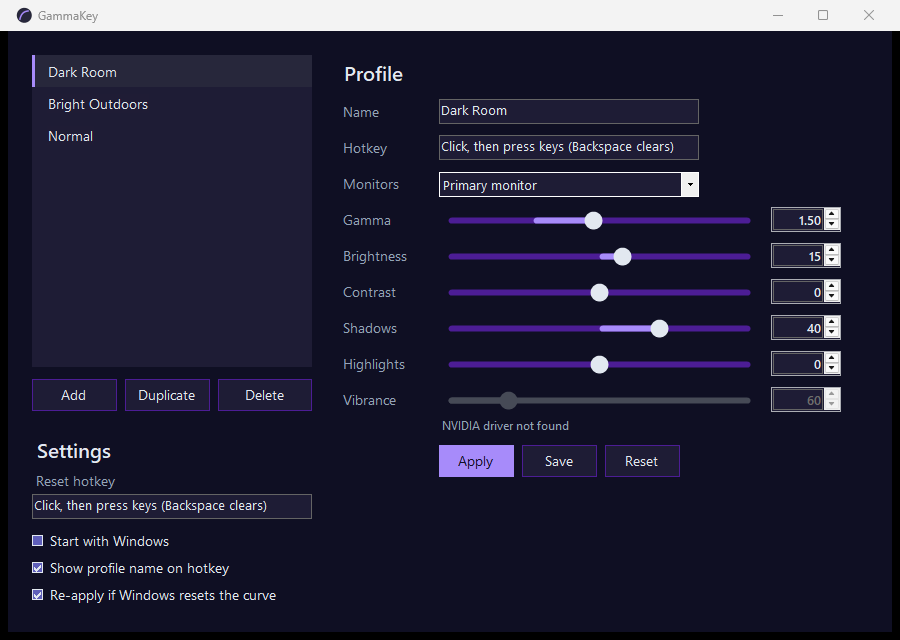
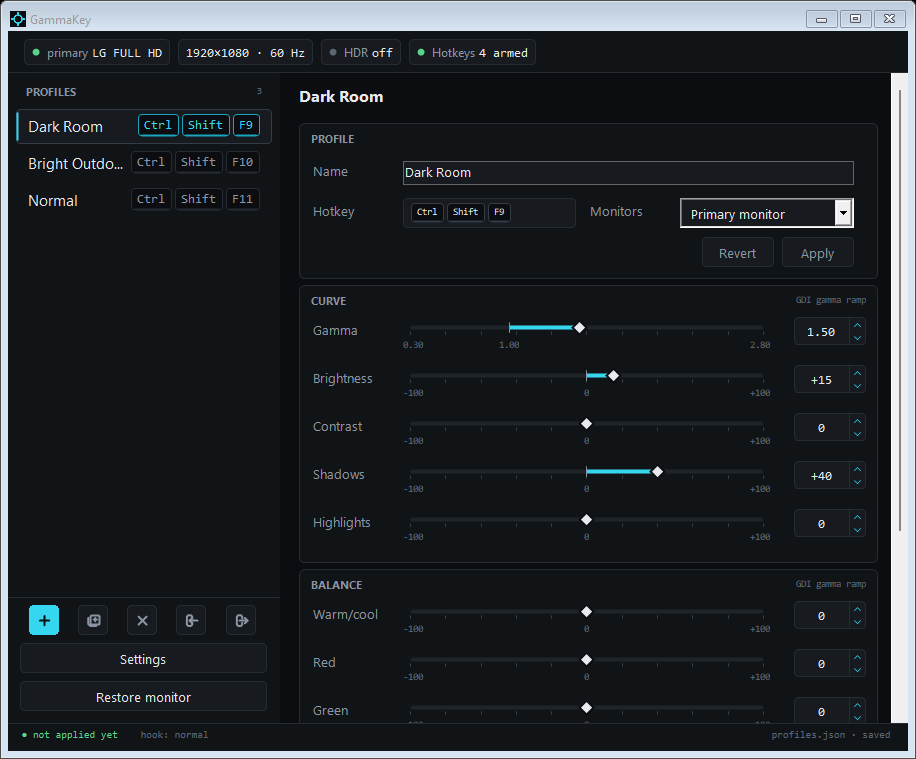
README covers every feature, the sliders, settings, files written beside the exe, requirements and warnings; screenshot shows the current UI

diff --git a/README.md b/README.md
@@ -1,50 +1,148 @@
 # GammaKey
 
-Switch your monitor's gamma, brightness, contrast, shadows, highlights and NVIDIA vibrance with a hotkey.
-Made for Escape from Tarkov's dark corners, works anywhere on the desktop.
+Switch your monitor's gamma, brightness, contrast, shadows, highlights, colour balance and NVIDIA
+vibrance with a hotkey. Made for Escape from Tarkov's dark corners, works anywhere on the desktop.
 
 ![Main window](docs/screenshots/main-window.png)
 
-## Run it
+## What it does
 
-1. Download `GammaKey.exe` from the [latest release](https://github.com/J-Ride/GammaKey/releases/latest) and put it in its own folder (it writes `profiles.json` beside itself).
-2. Double-click it. Windows SmartScreen may warn because the exe is unsigned: click **More info**, then **Run anyway**.
-3. An icon appears by the clock. Left-click it to open the window.
-4. Pick a profile, drag the sliders until the screen looks right, click the **Hotkey** box and press your key combo, then **Save**.
-5. Set a **Restore monitor hotkey** in Settings so you can always get back to normal.
+- **Profiles.** Each profile holds a full set of picture values, a hotkey and a monitor target
+  (primary, all, or one named monitor). Press the hotkey anywhere and the picture changes.
+- **Press again to restore.** Pressing the hotkey of the profile that is already active puts the
+  original picture back. A separate **Restore monitor** hotkey does the same from any state.
+- **Lives in the tray.** Closing the window hides it by the clock. Right-click the icon for the
+  profile list, Restore, Start with Windows and Quit.
+- **Share profiles.** Export one profile or all of them to a JSON file. Import a file from a friend.
+- **Safe by design.** The original picture is saved when the app starts and put back when you
+  restore, quit, or start again after a crash.
 
-Profiles live in `profiles.json`. Copy that file to a friend's folder to share your setup.
+## Requirements
+
+- Windows 10 or 11, 64-bit.
+- Nothing else to install. The download is a single self-contained exe (about 70 MB) that
+  carries its own .NET runtime.
+- An NVIDIA graphics card for the **Vibrance** slider. On AMD and Intel cards that slider is
+  greyed out and everything else works.
+- No administrator rights.
+
+## Install and run
+
+1. Download `GammaKey.exe` from the [latest release](https://github.com/J-Ride/GammaKey/releases/latest).
+2. Put it in its own folder. It saves its files beside itself (see Files below).
+3. Double-click it. Windows SmartScreen may warn because the exe is unsigned: click **More info**,
+   then **Run anyway**.
+4. An icon appears by the clock. Left-click it to open the window.
+
+Only one copy runs at a time. Starting a second one shows a note and quits.
+
+## Using it
+
+### The window
+
+- **Left rail:** the profile list with each profile's hotkey. Below it: add, duplicate, delete,
+  import and export buttons, then **Settings** and **Restore monitor**.
+- **Top strip:** the primary monitor, its resolution and refresh rate, whether HDR is on, and how
+  many hotkeys are armed.
+- **Editor:** the selected profile's name, hotkey and monitor target, then the sliders.
+
+### Make a profile
+
+1. Click **+** to add a profile, or pick one of the three starter profiles (Dark Room, Bright
+   Outdoors, Normal).
+2. Drag the sliders. The screen changes as you drag so you can see the result.
+3. Click the **Hotkey** box and press your key combination. Backspace clears it.
+4. Choose which **Monitors** the profile targets.
+5. Click **Apply** to save. **Revert** throws the edits away and reloads the saved profile.
+
+Selecting a profile in the list applies it to the screen. If you move to another profile with
+unsaved edits, a dialog asks whether to save them or discard them.
+
+### Sliders
+
+| Group | Sliders | Range |
+|---|---|---|
+| Curve | Gamma | 0.30 to 2.80 (1.00 is normal) |
+| Curve | Brightness, Contrast, Shadows, Highlights | -100 to +100 |
+| Balance | Warm/cool, Red, Green, Blue | -100 to +100 |
+| Balance | Black floor | 0 to 100 |
+| Color | Vibrance (NVIDIA only) | 50 to 100 (50 is normal) |
+
+Curve and Balance change the colour table the graphics card applies to the whole screen. Vibrance
+is set in the NVIDIA driver and survives alt-tab.
+
+If you push the sliders to an extreme, Windows may refuse the curve. The status line then says
+"Windows refused this curve, reduce the sliders" and the previous picture stays.
+
+### Hotkeys
+
+- Hotkeys are global. They work in games and on the desktop while GammaKey runs.
+- Set a **Restore monitor** hotkey in Settings so you can always get back to normal.
+- A hotkey without Ctrl, Alt or Shift swallows its key, so a profile on `F9` stops `F9` reaching
+  other apps. Use a modifier, or turn on pass-through (see Settings).
+- If another program already owns a combination, the hotkey box shows "in use by another app"
+  and the status line says "Hotkey already used by another app" with the profile names.
+
+### Settings
+
+| Setting | What it does |
+|---|---|
+| Start with Windows | Runs in the tray at sign-in. Adds a Run entry for the current user that points at the exe, so if you move the exe, turn this off and on again. |
+| Show window on launch | Off means tray only. |
+| Show profile name on hotkey | A short toast at the bottom right when a hotkey fires. |
+| Re-apply if Windows resets the curve | Every 3 seconds, checks that the active curve is still on screen and puts it back if a game or the driver cleared it. On by default. |
+| Let hotkeys pass through to other apps | Uses a system-wide keyboard hook instead of Windows hotkeys, so the key also reaches the game. See the anti-cheat warning under Games. |
+| Restore monitor hotkey | The key that puts the original picture back. |
+| Open profiles folder | Opens the folder that holds the exe and its files. |
+
+## Files
+
+Everything is saved beside `GammaKey.exe`. Nothing is written anywhere else except the optional
+Start with Windows entry in the registry.
+
+| File | Purpose |
+|---|---|
+| `profiles.json` | Your profiles and settings. Plain JSON, safe to copy to another PC. Written to a temp file first, then swapped in, so a crash cannot leave it half written. |
+| `profiles.json.corrupt` | Made only if `profiles.json` could not be read. Your old file is kept here and the app starts with the defaults. |
+| `baseline.json` | The monitor's original colour table and vibrance, captured at start. |
+| `running.lock` | Exists while the app runs. If it is still there at the next start, the last run died with a curve on screen, so the saved baseline is restored first. |
+
+Export writes the same JSON shape as `profiles.json`, so a copied `profiles.json` and an exported
+file both import. Imported profiles whose hotkey is already taken arrive with the hotkey cleared.
 
 ## How it works, and why it is safe
 
-GammaKey changes the colour curve your graphics card applies to the whole screen, the same control the
-NVIDIA Control Panel's "Adjust desktop color settings" page uses. It talks only to Windows and the graphics
-driver. It never opens, reads, hooks or injects anything into a game (the optional pass-through setting adds a system-wide keyboard hook; see Games). It runs without administrator rights.
+GammaKey changes the colour curve your graphics card applies to the whole screen, the same control
+the NVIDIA Control Panel's "Adjust desktop color settings" page uses. It talks only to Windows and
+the graphics driver. It never opens, reads, hooks or injects anything into a game. The one
+exception is the optional pass-through setting, which installs a system-wide keyboard hook; see
+Games.
+
+## Games
+
+Run games in borderless windowed mode. In exclusive fullscreen many games write their own gamma
+curve when they gain focus, which overwrites GammaKey until the next hotkey press or the next
+guard check.
+
+**Anti-cheat.** The pass-through setting uses a system-wide keyboard hook. Some anti-cheat systems
+flag that. The safer choice is to leave it off and use a Ctrl, Alt or Shift modifier on your
+hotkeys. Pass-through also does not see keys sent by macro software or a Stream Deck, and gets
+nothing while an elevated (admin) window has focus.
 
 ## Notes
 
 - **HDR.** Tune the sliders with HDR on if you game with HDR on; what you see is what is saved.
-- **Vibrance** needs an NVIDIA card. On other cards the slider is greyed out and everything else works.
-- **Flicker in Discord or Chrome** with a curve active is a known NVIDIA driver quirk with custom curves.
-  Update the driver, or press Restore monitor while not gaming.
-- **Original settings** are saved to `baseline.json` on start and restored when you press Restore monitor, on Quit, and on the
-  next start if GammaKey was closed uncleanly.
-
-## Games
-
-Run games in borderless windowed mode. In exclusive fullscreen many games write their own
-gamma curve when they gain focus, which overwrites GammaKey until the next hotkey press.
-
-Hotkeys swallow their key by default, so a profile on `Numpad1` stops `1` typing anywhere.
-Settings has "Let hotkeys pass through to other apps", which uses a system-wide keyboard
-hook instead. Some anti-cheat systems flag that; the safer choice is a Ctrl or Alt modifier.
-Pass-through does not see keys sent by macro software or a Stream Deck, and gets nothing while
-an elevated (admin) window has focus.
+- **Flicker in Discord or Chrome** with a curve active is a known NVIDIA driver quirk with custom
+  curves. Update the driver, or press Restore monitor while not gaming.
+- **Monitor unplugged.** A profile that targets a monitor that is not connected falls back to
+  the primary monitor and says so in the status line.
 
 ## Build from source
 
 Needs the .NET 8 SDK.
 
+    dotnet build
+    dotnet test
     .\publish.ps1
 
-Output: `publish\GammaKey.exe`.
+`publish.ps1` runs the tests, then builds the single self-contained exe into `publish\GammaKey.exe`.
